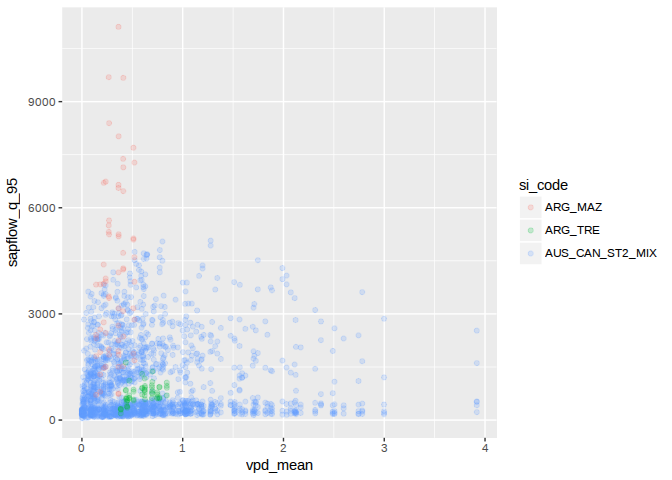
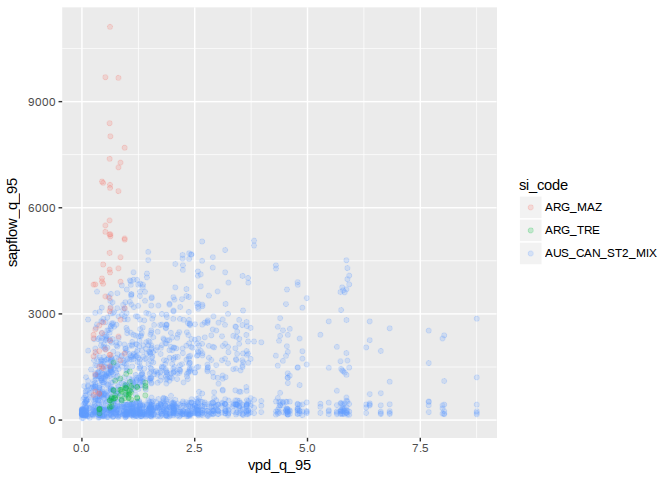
updated readme and description files

diff --git a/README.md b/README.md
@@ -30,12 +30,12 @@ You can work with individual sites:
 library(sapfluxnetr)
 # install.packages("tidyverse")
 library(tidyverse)
-#> ── Attaching packages ───────────────────────────────────────────────────────────────────────────────────────── tidyverse 1.2.1 ──
+#> ── Attaching packages ───────────────────────────────────────────────────────────────────────────────────── tidyverse 1.2.1 ──
 #> ✔ ggplot2 2.2.1     ✔ purrr   0.2.4
 #> ✔ tibble  1.4.2     ✔ dplyr   0.7.4
 #> ✔ tidyr   0.8.0     ✔ stringr 1.3.0
-#> ✔ readr   1.1.1     ✔ forcats 0.2.0
-#> ── Conflicts ──────────────────────────────────────────────────────────────────────────────────────────── tidyverse_conflicts() ──
+#> ✔ readr   1.1.1     ✔ forcats 0.3.0
+#> ── Conflicts ──────────────────────────────────────────────────────────────────────────────────────── tidyverse_conflicts() ──
 #> ✖ dplyr::filter() masks stats::filter()
 #> ✖ dplyr::lag()    masks stats::lag()
 
@@ -52,63 +52,14 @@ sfn_plot(ARG_MAZ, formula_env = ~ vpd)
 ``` r
 
 # daily sapflow standard metrics
-arg_maz_metrics <- daily_metrics(ARG_MAZ)
+arg_maz_metrics <- daily_metrics(
+  ARG_MAZ, tidy = TRUE, metadata = sfn_metadata_ex
+)
 #> [1] "Crunching data for ARG_MAZ. In large datasets this could take a while"
 #> [1] "General data for ARG_MAZ"
-#> [1] "Predawn data for ARG_MAZ"
-#> [1] "Midday data for ARG_MAZ"
-
-# tidy results
-arg_maz_tidy <- metrics_tidyfier(arg_maz_metrics, sfn_metadata_ex)
-arg_maz_tidy
-#> # A tibble: 65 x 188
-#>    TIMESTAMP           si_code pl_code   sapflow_centroid sapflow_coverage
-#>    <dttm>              <chr>   <chr>                <dbl>            <dbl>
-#>  1 2009-11-18 00:00:00 ARG_MAZ ARG_MAZ_…             17.8             100.
-#>  2 2009-11-18 00:00:00 ARG_MAZ ARG_MAZ_…             18.0             100.
-#>  3 2009-11-18 00:00:00 ARG_MAZ ARG_MAZ_…             17.5             100.
-#>  4 2009-11-18 00:00:00 ARG_MAZ ARG_MAZ_…             17.8             100.
-#>  5 2009-11-18 00:00:00 ARG_MAZ ARG_MAZ_…             18.0             100.
-#>  6 2009-11-19 00:00:00 ARG_MAZ ARG_MAZ_…             13.3             100.
-#>  7 2009-11-19 00:00:00 ARG_MAZ ARG_MAZ_…             13.0             100.
-#>  8 2009-11-19 00:00:00 ARG_MAZ ARG_MAZ_…             13.2             100.
-#>  9 2009-11-19 00:00:00 ARG_MAZ ARG_MAZ_…             13.3             100.
-#> 10 2009-11-19 00:00:00 ARG_MAZ ARG_MAZ_…             13.2             100.
-#> # ... with 55 more rows, and 183 more variables: sapflow_max <dbl>,
-#> #   sapflow_max_time <dttm>, sapflow_mean <dbl>, sapflow_min <dbl>,
-#> #   sapflow_min_time <dttm>, sapflow_n <dbl>, sapflow_q_95 <dbl>,
-#> #   sapflow_q_99 <dbl>, sapflow_sd <dbl>, ta_mean <dbl>, rh_mean <dbl>,
-#> #   vpd_mean <dbl>, sw_in_mean <dbl>, ws_mean <dbl>, precip_mean <dbl>,
-#> #   swc_shallow_mean <dbl>, ppfd_in_mean <dbl>, ext_rad_mean <dbl>,
-#> #   ta_sd <dbl>, rh_sd <dbl>, vpd_sd <dbl>, sw_in_sd <dbl>, ws_sd <dbl>,
-#> #   precip_sd <dbl>, swc_shallow_sd <dbl>, ppfd_in_sd <dbl>,
-#> #   ext_rad_sd <dbl>, ta_n <int>, rh_n <int>, vpd_n <int>, sw_in_n <int>,
-#> #   ws_n <int>, precip_n <int>, swc_shallow_n <int>, ppfd_in_n <int>,
-#> #   ext_rad_n <int>, ta_coverage <dbl>, rh_coverage <dbl>,
-#> #   vpd_coverage <dbl>, sw_in_coverage <dbl>, ws_coverage <dbl>,
-#> #   precip_coverage <dbl>, swc_shallow_coverage <dbl>,
-#> #   ppfd_in_coverage <dbl>, ext_rad_coverage <dbl>, ta_q_95 <dbl>,
-#> #   rh_q_95 <dbl>, vpd_q_95 <dbl>, sw_in_q_95 <dbl>, ws_q_95 <dbl>,
-#> #   precip_q_95 <dbl>, swc_shallow_q_95 <dbl>, ppfd_in_q_95 <dbl>,
-#> #   ext_rad_q_95 <dbl>, ta_q_99 <dbl>, rh_q_99 <dbl>, vpd_q_99 <dbl>,
-#> #   sw_in_q_99 <dbl>, ws_q_99 <dbl>, precip_q_99 <dbl>,
-#> #   swc_shallow_q_99 <dbl>, ppfd_in_q_99 <dbl>, ext_rad_q_99 <dbl>,
-#> #   ta_max <dbl>, rh_max <dbl>, vpd_max <dbl>, sw_in_max <dbl>,
-#> #   ws_max <dbl>, precip_max <dbl>, swc_shallow_max <dbl>,
-#> #   ppfd_in_max <dbl>, ext_rad_max <dbl>, ta_max_time <dttm>,
-#> #   rh_max_time <dttm>, vpd_max_time <dttm>, sw_in_max_time <dttm>,
-#> #   ws_max_time <dttm>, precip_max_time <dttm>,
-#> #   swc_shallow_max_time <dttm>, ppfd_in_max_time <dttm>,
-#> #   ext_rad_max_time <dttm>, ta_min <dbl>, rh_min <dbl>, vpd_min <dbl>,
-#> #   sw_in_min <dbl>, ws_min <dbl>, precip_min <dbl>,
-#> #   swc_shallow_min <dbl>, ppfd_in_min <dbl>, ext_rad_min <dbl>,
-#> #   ta_min_time <dttm>, rh_min_time <dttm>, vpd_min_time <dttm>,
-#> #   sw_in_min_time <dttm>, ws_min_time <dttm>, precip_min_time <dttm>,
-#> #   swc_shallow_min_time <dttm>, ppfd_in_min_time <dttm>,
-#> #   ext_rad_min_time <dttm>, pl_age <dbl>, …
 
 # plot daily aggregations
-ggplot(arg_maz_tidy, aes(x = vpd_mean, y = sapflow_q_95, colour = pl_code)) +
+ggplot(arg_maz_metrics, aes(x = vpd_q_95, y = sapflow_q_95, colour = pl_code)) +
   geom_point()
 ```
 
@@ -133,71 +84,18 @@ plots_list[['AUS_CAN_ST2_MIX']]
 ``` r
 
 # daily sapflow standard metrics
-multi_metrics <- daily_metrics(multi_sfn)
+multi_metrics <- daily_metrics(
+  multi_sfn, tidy = TRUE, metadata = sfn_metadata_ex
+)
 #> [1] "Crunching data for ARG_TRE. In large datasets this could take a while"
 #> [1] "General data for ARG_TRE"
-#> [1] "Predawn data for ARG_TRE"
-#> [1] "Midday data for ARG_TRE"
 #> [1] "Crunching data for ARG_MAZ. In large datasets this could take a while"
 #> [1] "General data for ARG_MAZ"
-#> [1] "Predawn data for ARG_MAZ"
-#> [1] "Midday data for ARG_MAZ"
 #> [1] "Crunching data for AUS_CAN_ST2_MIX. In large datasets this could take a while"
 #> [1] "General data for AUS_CAN_ST2_MIX"
-#> [1] "Predawn data for AUS_CAN_ST2_MIX"
-#> [1] "Midday data for AUS_CAN_ST2_MIX"
-
-# tidy results
-multi_tidy <- metrics_tidyfier(multi_metrics, sfn_metadata_ex)
-multi_tidy
-#> # A tibble: 12,769 x 188
-#>    TIMESTAMP           si_code  pl_code  sapflow_centroid sapflow_coverage
-#>    <dttm>              <chr>    <chr>               <dbl>            <dbl>
-#>  1 2006-06-20 00:00:00 AUS_CAN… AUS_CAN…              NaN               0.
-#>  2 2006-06-20 00:00:00 AUS_CAN… AUS_CAN…              NaN               0.
-#>  3 2006-06-20 00:00:00 AUS_CAN… AUS_CAN…              NaN               0.
-#>  4 2006-06-20 00:00:00 AUS_CAN… AUS_CAN…              NaN               0.
-#>  5 2006-06-20 00:00:00 AUS_CAN… AUS_CAN…              NaN               0.
-#>  6 2006-06-20 00:00:00 AUS_CAN… AUS_CAN…              NaN               0.
-#>  7 2006-06-20 00:00:00 AUS_CAN… AUS_CAN…              NaN               0.
-#>  8 2006-06-20 00:00:00 AUS_CAN… AUS_CAN…              NaN               0.
-#>  9 2006-06-20 00:00:00 AUS_CAN… AUS_CAN…              NaN               0.
-#> 10 2006-06-20 00:00:00 AUS_CAN… AUS_CAN…              NaN               0.
-#> # ... with 12,759 more rows, and 183 more variables: sapflow_max <dbl>,
-#> #   sapflow_max_time <dttm>, sapflow_mean <dbl>, sapflow_min <dbl>,
-#> #   sapflow_min_time <dttm>, sapflow_n <dbl>, sapflow_q_95 <dbl>,
-#> #   sapflow_q_99 <dbl>, sapflow_sd <dbl>, ta_mean <dbl>, rh_mean <dbl>,
-#> #   vpd_mean <dbl>, sw_in_mean <dbl>, ws_mean <dbl>, precip_mean <dbl>,
-#> #   swc_shallow_mean <dbl>, ppfd_in_mean <dbl>, ext_rad_mean <dbl>,
-#> #   ta_sd <dbl>, rh_sd <dbl>, vpd_sd <dbl>, sw_in_sd <dbl>, ws_sd <dbl>,
-#> #   precip_sd <dbl>, swc_shallow_sd <dbl>, ppfd_in_sd <dbl>,
-#> #   ext_rad_sd <dbl>, ta_n <int>, rh_n <int>, vpd_n <int>, sw_in_n <int>,
-#> #   ws_n <int>, precip_n <int>, swc_shallow_n <dbl>, ppfd_in_n <int>,
-#> #   ext_rad_n <int>, ta_coverage <dbl>, rh_coverage <dbl>,
-#> #   vpd_coverage <dbl>, sw_in_coverage <dbl>, ws_coverage <dbl>,
-#> #   precip_coverage <dbl>, swc_shallow_coverage <dbl>,
-#> #   ppfd_in_coverage <dbl>, ext_rad_coverage <dbl>, ta_q_95 <dbl>,
-#> #   rh_q_95 <dbl>, vpd_q_95 <dbl>, sw_in_q_95 <dbl>, ws_q_95 <dbl>,
-#> #   precip_q_95 <dbl>, swc_shallow_q_95 <dbl>, ppfd_in_q_95 <dbl>,
-#> #   ext_rad_q_95 <dbl>, ta_q_99 <dbl>, rh_q_99 <dbl>, vpd_q_99 <dbl>,
-#> #   sw_in_q_99 <dbl>, ws_q_99 <dbl>, precip_q_99 <dbl>,
-#> #   swc_shallow_q_99 <dbl>, ppfd_in_q_99 <dbl>, ext_rad_q_99 <dbl>,
-#> #   ta_max <dbl>, rh_max <dbl>, vpd_max <dbl>, sw_in_max <dbl>,
-#> #   ws_max <dbl>, precip_max <dbl>, swc_shallow_max <dbl>,
-#> #   ppfd_in_max <dbl>, ext_rad_max <dbl>, ta_max_time <dttm>,
-#> #   rh_max_time <dttm>, vpd_max_time <dttm>, sw_in_max_time <dttm>,
-#> #   ws_max_time <dttm>, precip_max_time <dttm>,
-#> #   swc_shallow_max_time <dttm>, ppfd_in_max_time <dttm>,
-#> #   ext_rad_max_time <dttm>, ta_min <dbl>, rh_min <dbl>, vpd_min <dbl>,
-#> #   sw_in_min <dbl>, ws_min <dbl>, precip_min <dbl>,
-#> #   swc_shallow_min <dbl>, ppfd_in_min <dbl>, ext_rad_min <dbl>,
-#> #   ta_min_time <dttm>, rh_min_time <dttm>, vpd_min_time <dttm>,
-#> #   sw_in_min_time <dttm>, ws_min_time <dttm>, precip_min_time <dttm>,
-#> #   swc_shallow_min_time <dttm>, ppfd_in_min_time <dttm>,
-#> #   ext_rad_min_time <dttm>, pl_age <dbl>, …
 
 # plot daily aggregations
-ggplot(multi_tidy, aes(x = vpd_mean, y = sapflow_q_95, colour = si_code)) +
+ggplot(multi_metrics, aes(x = vpd_q_95, y = sapflow_q_95, colour = si_code)) +
   geom_point(alpha = 0.2)
 #> Warning: Removed 10966 rows containing missing values (geom_point).
 ```

diff --git a/NEWS.md b/NEWS.md
@@ -8,6 +8,8 @@
   interval metrics, avoiding this way the creation of very big objects.
 * Added `tidy` argument to *_metrics functions, to skip one step when creating
   tidy metrics.
+* Updated README file
+* Added bug report link to DESCRIPTION file
 * Updated documentation and vignettes accordingly with the changes made
 
 # sapfluxnetr 0.0.3
